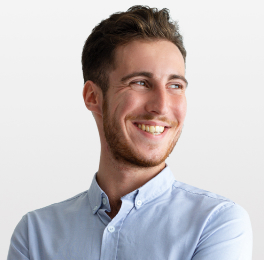
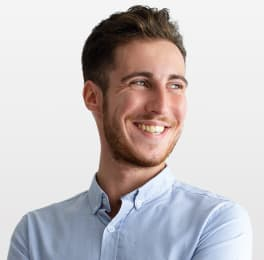
uppdate

diff --git a/index.html b/index.html
@@ -70,7 +70,7 @@
        <ul>
         <li>
             <img 
-            src="./images/imd1.jpg" 
+            src="./images/img1.jpg"
             alt="Product Designer"
             width="264"
             heidth="260" />
